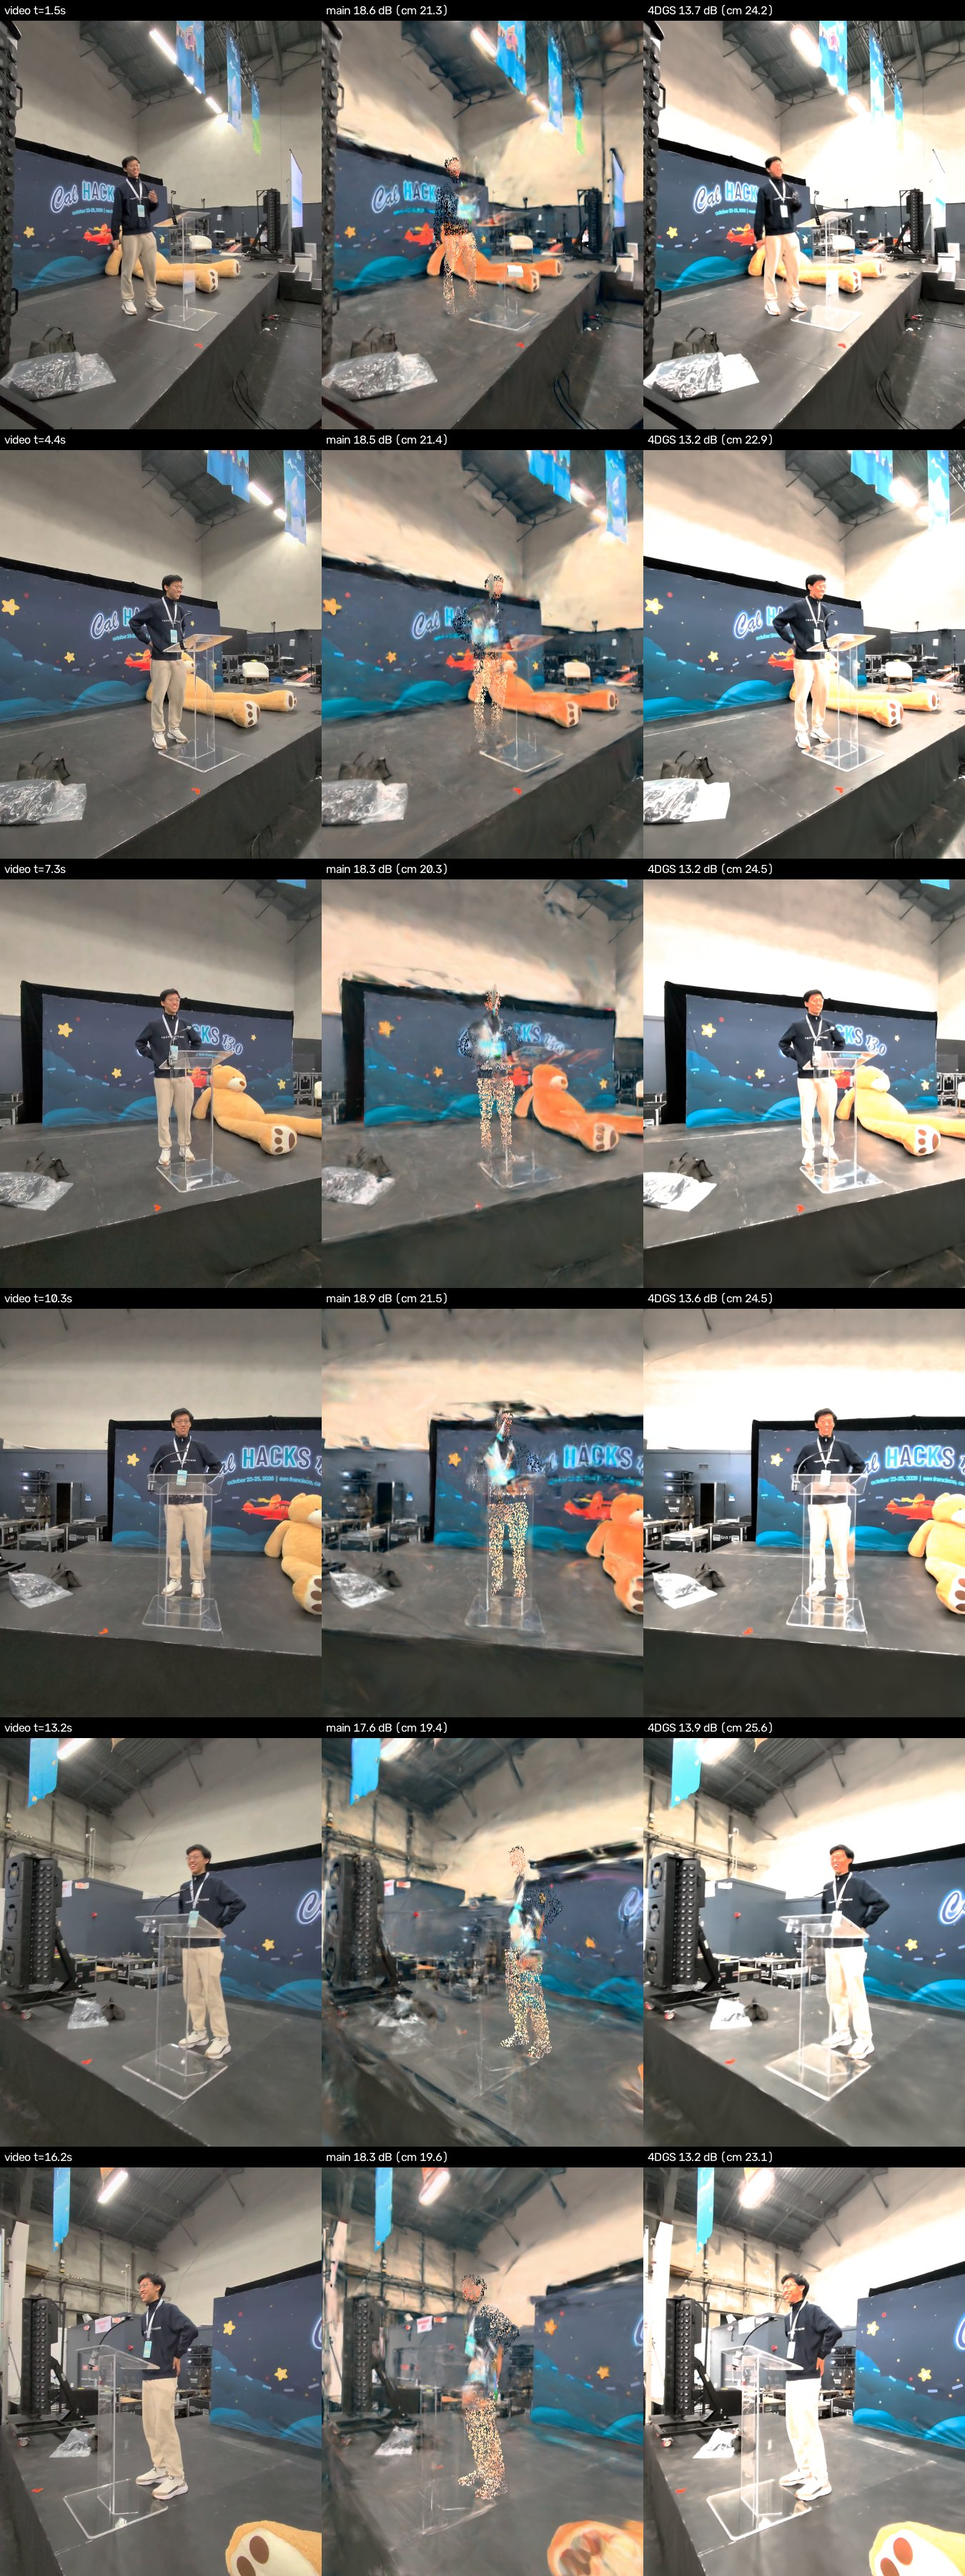
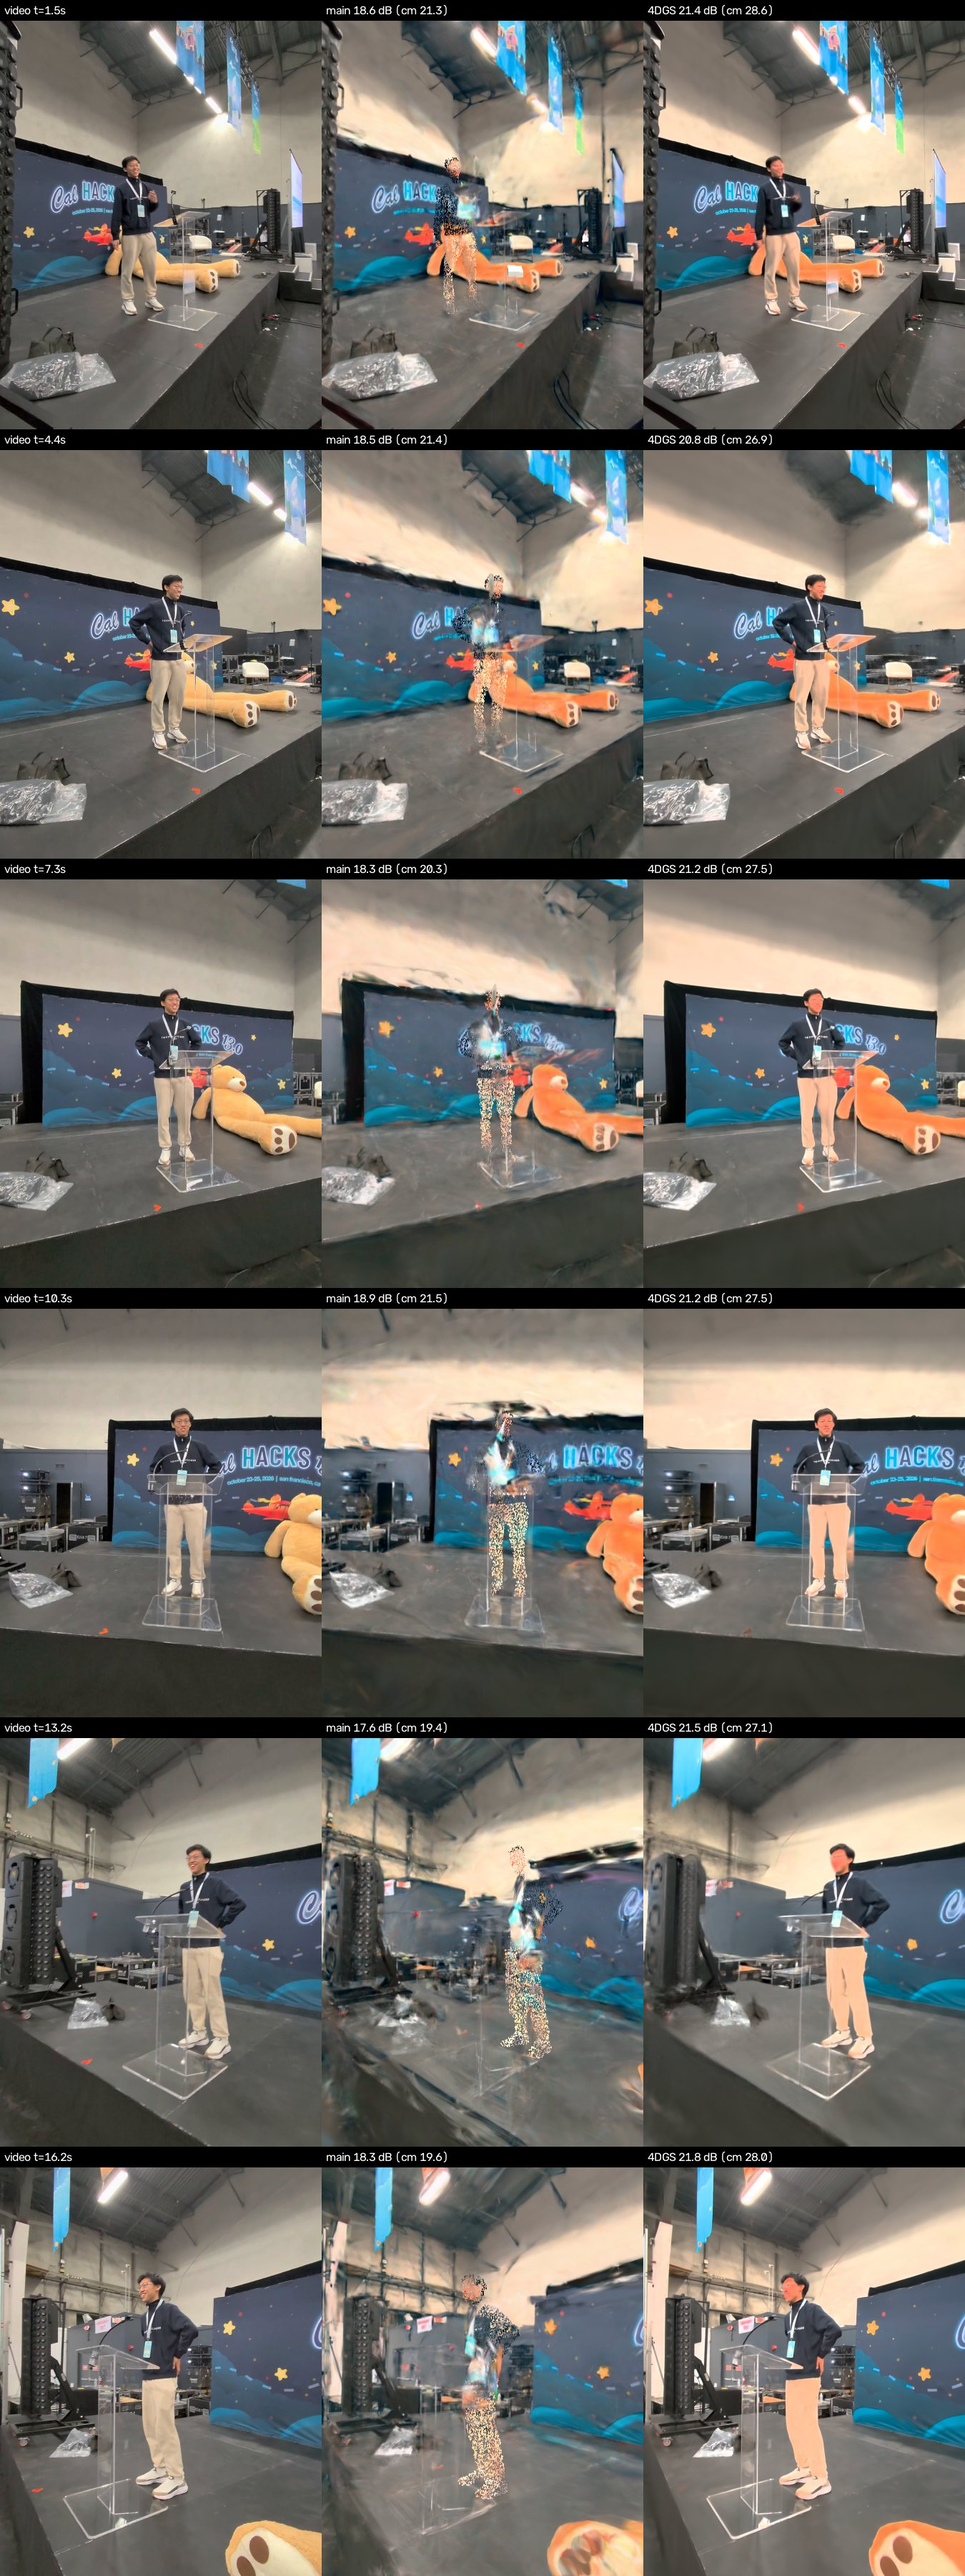
Report: split 4DGS retrained to completion (29.2 dB, static room, 93 MB), decoder offset measured

Changed region(s): [[0.6533, 0.0, 1.0, 1.0]]

diff --git a/docs/FOURD_REPORT.md b/docs/FOURD_REPORT.md
@@ -13,10 +13,11 @@ Track: an independent attempt at true 4D Gaussian splatting (4DGS) on the Ray-Ba
   2. **Bright walls are partly transparent.** 4DGaussians trains on a white background, so bright surfaces are learned see-through over white. On a black viewer background the same export scores 21.0 dB instead of 30.5 dB.
   3. **The files are big:** 880 MB for 17 s, against about 7 MB for the static room.
   4. **There is no separation into objects**, so nothing in the 4D splat can be grabbed or thrown.
-- **My split variant (run e) fixes problems 1 to 3.** Only Gaussians seeded on people deform, and training uses a random background.
-  - The room is exactly static, and the export is opaque.
-  - The payload drops to `static.spz` (4.5 MB) plus 0.79 MB per 10 Hz frame (144 MB for v59).
-  - It scores 26.0 dB on held-out frames on a black background, from a half-trained checkpoint (the run was cut short by the full disk).
+- **My split variant (run e, final) fixes problems 1 to 3.** Only Gaussians seeded on people deform, and training uses a random background. I retrained it to completion on the current clip, with the main pipeline's refined poses and exposure.
+  - Held-out: **29.2 dB, SSIM 0.913, LPIPS 0.213**; people pixels 25.9 dB, other pixels 29.5 dB. Scored in video space, against OpenCV frames of the current clip.
+  - The room does not move (median 0.0 cm, p90 2.2 cm), and the export is opaque.
+  - Payload: `static.spz` 3.4 MB plus 0.53 MB per 10 Hz frame, 93 MB for v59.
+  - Training took 33 min on one H200.
 - **v71** (39 s, stage then a crowded hall): 4DGS **28.7 dB / 0.905 / 0.218** against **18.0 dB / 0.777 / 0.389** for the static room at the same 97 held-out cameras. On people pixels: 25.7 vs 9.5 dB.
 - **The whole-frame PSNRs come from different frames.** v59's `input/clip.mp4` was re-normalized at 02:30Z with a darker tone map, after my runs had trained. Each method is scored against the frames it trained on. For a cross-check, the comparison image also reports PSNR after a global colour match.
 
@@ -69,7 +70,7 @@ Each method is scored against the frames it trained on: 4DGS against the clip as
 | a | 8.8 cm | 16.6 cm | 9.8 cm | 8.7 cm |
 | c | 7.1 cm | 14.7 cm | 9.2 cm | 6.9 cm |
 
-## Comparison image: `docs/fourd_vs_static_v59.jpg`
+## Comparison image (first version, run c; the docs image is now run e, see above)
 
 - **Columns:**
   1. The video frame (`ffmpeg -ss t` on the current `input/clip.mp4`).
@@ -116,7 +117,7 @@ Each method is scored against the frames it trained on: 4DGS against the clip as
 
 - **The room stays put.** A static splat is rock solid from any viewpoint in VR. 4DGaussians moves background Gaussians by a median 7 cm, to absorb pose and exposure errors, so off the recorded path the room shimmers. My held-out frames sit between training frames on the same path, which favours 4DGS. Novel-view quality in VR is untested, and probably worse than these numbers suggest.
 - **Objects and physics:** grabbable objects with colliders, a floor, a room collider. The 4D model is one undivided cloud, so you cannot grab and throw an object out of it.
-- **Size and streaming:** about 7 MB for the room, plus small ghost sequences and object splats. Vanilla 4DGS is 880 MB per 17 s at 10 Hz. The split (run e) brings it to 4.5 MB plus 139 MB, which is still about 20 times the layered payload.
+- **Size and streaming:** about 7 MB for the room, plus small ghost sequences and object splats. Vanilla 4DGS is 880 MB per 17 s at 10 Hz. The split (run e) brings it to 3.4 MB plus 93 MB, still about 14 times the layered payload.
 - **Opaque geometry:** 4DGS as shipped learns bright walls as semi-transparent over its white training background, which drops the export to 21 dB on black. The static pipeline does not have this problem. Training on a random background (run e) fixes it.
 - **Robustness on long, wide clips:** see v71 below.
 
@@ -129,28 +130,40 @@ Each method is scored against the frames it trained on: 4DGS against the clip as
   - Disk: about 3 GB of PLY plus 0.9 GB of spz per 17 s clip.
 - **Static pipeline:** gsplat MCMC training at 0.67 of the steps. The main session reports about 17 min per glasses clip on a shared GPU, and the output is about 7 MB.
 
-## Run e: static/dynamic split + random background (v59)
+## Run e: static/dynamic split + random background (v59, final)
 
 **Changes from run c** (patches in `patch_4dgaussians.py`, enabled by `FOURD_DYN_FLAG=1 FOURD_RANDBG=1`):
 
 - **Only people deform.** Init points backprojected from ViPE "person" pixels are flagged dynamic: 8.8k of 126k points, with the mask dilated by 6 px and sampled twice as densely. Only flagged Gaussians, and the children densification makes from them, go through the deformation field; the room is an ordinary static 3DGS. This uses 4DGaussians' own `_deformation_table`, which upstream carries through densification and pruning but never uses.
 - **Random background colour per training view.** The model can no longer hide bright walls as "transparent over white".
-- **It is not fully trained.** The run died at fine iteration ~10.3k of 14k when the /workspace volume hit its quota (see below), so these numbers are from the iteration-7000 checkpoint. There was no time to retrain before the 9 PM cut-off.
+- **Inputs match the main pipeline:**
+  - Frames: the current tone-mapped clip (`convert.py --refined --exposure`, data `A/data/v59e`).
+  - Poses: the main pipeline's pose refinement (the `cameras.json` vs `cameras.vipe.json` delta of the nearest keyframe, applied to every frame).
+  - Colour: training targets exposure-normalized as x = (y − b) / g from `world/exposure.json`. The export is therefore in the static room's colour space, and the viewer's wearer view re-exposes it with each keyframe's `e`.
+- **Training:** 3k coarse + 14k fine iterations, 33 min alone on pod B GPU 0 (03:42–04:16Z). Spz-only export with `post.py --keep_ply 0`.
+- **History:** a first run e on the old frames died at fine iteration ~10.3k when the disk filled. Its 7k checkpoint scored 25.99 / 0.886 / 0.245.
 
-| v59, 44 held-out frames | PSNR | SSIM | LPIPS | people px | non-people px |
+| v59, 44 held-out frames, video space (render re-exposed; GT = OpenCV frames of the current clip) | PSNR | SSIM | LPIPS | people px | other px |
 |---|---|---|---|---|---|
-| run e @7k, native renderer | 25.99 | 0.886 | 0.245 | 23.3 | 26.2 |
-| run e @7k, exported splats, **black** background | **25.98** | 0.886 | 0.245 | 23.3 | 26.2 |
-| run e @7k, exported splats, white background | 25.98 | 0.886 | 0.245 | 23.3 | 26.2 |
-| (run c, exported, black background) | 21.04 | 0.896 | 0.194 | 23.4 | 21.0 |
+| **run e, final** | **29.20** | **0.913** | **0.213** | **25.9** | **29.5** |
+| run c (vanilla; old frames; white background) | 30.51 | 0.934 | 0.163 | 25.1 | 31.1 |
+| run c, exported splats, black background | 21.04 | 0.896 | 0.194 | 23.4 | 21.0 |
+| main static room, `baked.ply`, same cameras | 18.24 | 0.794 | 0.338 | 9.1 | 20.0 |
 
-- **The export is now independent of the background:** fully opaque, and it renders the same on a dark viewer background.
-- **The room no longer moves:** non-person Gaussians have a median displacement of 0.0 cm, p90 5.5 cm (the p90 comes from dilated-mask edges flagged dynamic). Person Gaussians move a median 7.3 cm and p90 17.6 cm, as they should.
-- **Size:** 48.6k dynamic and 270k static Gaussians. The viewer payload is `static.spz` (4.5 MB) plus `frames_dyn/t_%04d.spz` (177 x 0.79 MB = 139 MB), against 890 MB for all-Gaussians-per-frame.
-- **Comparison-image rows with run e** (black background): mean 13.5 dB raw, 23.8 dB colour-matched, against 24.1 for run c and 20.6 for the main pipeline.
-- **Trade-off:**
-  - The background loses about 5 dB relative to run c, partly from half training. Mostly it is because a rigid room cannot absorb per-frame pose and exposure errors any more.
-  - It still beats the static pipeline's room on the same cameras (26.2 vs 20–22 dB on non-people pixels). This is the version worth putting in the viewer.
+- **Room motion** (`motion.json`): non-person Gaussians median 0.0 cm, p90 2.2 cm. Person Gaussians median 6.7 cm, p90 15.8 cm.
+- **Size:** 31.5k dynamic and 199.7k static Gaussians.
+- **Payload:**
+  - `static.spz`: 3.39 MB.
+  - `frames_dyn/t_0000..0176.spz`: 177 files of about 0.53 MB, 93 MB in total.
+  - For comparison, all-Gaussians-per-frame spz would be 693 MB (kept in `/workspace/4dgs/A/out/v59e_e/frames/`).
+- **Opaque:** trained on random backgrounds, so it renders the same on any viewer background.
+- **Comparison image** (`docs/fourd_vs_static_v59.jpg` is now run e, re-exposed with `exposure.json` and rendered on black). Means over the six rows:
+
+  | reference | main pipeline | 4DGS run e |
+  |---|---|---|
+  | ffmpeg `-ss` frame | 18.4 | 21.3 |
+  | ffmpeg frame, colour-matched | 20.6 | 27.6 |
+  | OpenCV frame (the decode both methods trained on) | 19.4 | 31.8 |
 
 ## v71 (39 s, stage then a crowded hall)
 
@@ -178,7 +191,7 @@ Each method is scored against the frames it trained on: 4DGS against the clip as
   - From now on: keep only spz (`post.py --keep_ply 0 --dyn_out 0`).
 - **Room wobble** (7 cm median) in vanilla 4DGaussians: fixed by the split (run e). The v71 export is still vanilla.
 - **Transparency from the white background:** fixed by the random-background training in run e. Runs a and c, and v71, were trained before the fix.
-- **Run e is half-trained** (7k of 14k fine iterations). Retrain it to completion: about 30 min alone on one H200.
+- **Run e is retrained to completion** (final numbers above). It has still not been viewed in the viewer or on Quest.
 - **Tone mismatch:** v59's clip was re-normalized after training. A retrain on the current clip would make the raw PSNRs comparable.
 - **Nothing has run in the viewer or on Quest:** I produced files only. 177 x 5 MB spz is too much to stream to Quest for one clip.
 - **The exported colour is baked for the recorded camera at each time,** so view-dependent effects are frozen. Fine for replay, slightly wrong from other viewpoints.
@@ -186,8 +199,8 @@ Each method is scored against the frames it trained on: 4DGS against the clip as
 
 ## Next steps
 
-1. Use the split model (run e) as the default, retrained to completion (about 30 min): static room Gaussians (one spz) plus dynamic people Gaussians per 10 Hz frame. Stream only the dynamic part, 0.8 MB per frame.
-2. Retrain on the current tone-mapped clip, with the main pipeline's refined poses and exposure.
+1. Use the split model (run e) as the default: `static.spz` (3.4 MB) loaded once, plus dynamic people Gaussians per 10 Hz frame (0.53 MB each). Stream only the dynamic part.
+2. Fix the stream colour tags at normalize, and score with the decoder used for training.
 3. Add a regularizer on deformation magnitude for Gaussians not on people, plus ViPE depth supervision, to reduce floaters off the recorded path.
 4. Try it in the viewer (Spark): load `static.spz` once and swap `frames_dyn/t_%04d.spz` per 100 ms.
 
@@ -200,11 +213,13 @@ Each method is scored against the frames it trained on: 4DGS against the clip as
   - `video_fixedcam.mp4`: camera frozen mid-clip while time plays.
   - `motion.json`
   - `compare_c.jpg`, `compare_c.json`
-  - `frames/`: `t_0000..0176.ply` and `.spz`, plus `frames.json`. All Gaussians per 10 Hz frame, in the world frame. 16.5 MB PLY or 5.0 MB spz each; 2.9 GB of PLY and 0.88 GB of spz in total.
-- **On the pod, v59 run e (split):** `/workspace/work/v59/4dgs/split/`
-  - `static.spz` (4.5 MB) and `static.ply`.
-  - `frames_dyn/t_%04d.spz` plus `frames.json`: 177 files, 139 MB in total.
-  - `metrics.json`, `renders/`, `compare_e.jpg`.
+  - `frames/`: `t_0000..0176.spz` plus `frames.json`. All Gaussians per 10 Hz frame, in the world frame, 5.0 MB each and 0.88 GB in total. The PLYs were deleted for disk space.
+- **On the pod, v59 run e (final split):** `/workspace/work/v59/4dgs/split/`
+  - `static.spz`: 3.4 MB.
+  - `frames_dyn/t_0000..0176.spz`: 93 MB in total.
+  - `frames_dyn/frames.json`
+  - `metrics.json`, `motion.json`, `renders/`, `compare_e.jpg`, `compare_e.json`.
+- **v59 run c spz:** `frames/t_*.spz`. Its PLYs were deleted for disk space.
 - **On the pod, v71:** `/workspace/work/v71/4dgs/`
   - `metrics.json`, `renders/`, `video.mp4`, `video_fixedcam.mp4`.
   - `frames/t_0000..0387.spz` plus `frames.json` (1.9 GB, PLYs not kept).

diff --git a/docs/VISION_PIPELINE_REPORT.md b/docs/VISION_PIPELINE_REPORT.md
@@ -286,7 +286,7 @@ code: `pipeline/fourd/`; side-by-side image: [fourd_vs_static_v59.jpg](fourd_vs_
 | v59 (speaker at the podium), 44 held-out frames, recorded camera | PSNR | SSIM | LPIPS | people px | other px |
 |---|---|---|---|---|---|
 | 4DGS, vanilla (run c) | **30.5** | **0.934** | **0.163** | 25.1 | 31.1 |
-| 4DGS, split room / people + random background (run e, half-trained) | 26.0 | 0.886 | 0.245 | 23.3 | 26.2 |
+| 4DGS, split room / people + random background (run e, retrained to completion 9:18 PM) | 29.2 | 0.913 | 0.213 | 25.9 | 29.5 |
 | Layered pipeline, static room (`baked.ply`) | 18.2 | 0.794 | 0.338 | 9.1 | 20.0 |
 
 v71 (stage, then a crowded hall), 97 held-out cameras: 4DGS 28.7 / 0.905 / 0.218 against 18.0 / 0.777 / 0.389 for
@@ -300,9 +300,10 @@ What it means:
   from anywhere else). It trains over white, so bright walls come out see-through (21 dB instead of 30.5 on a dark
   background). The export is 880 MB for 17 s. Nothing in it is an object, so nothing can be grabbed or thrown.
 - **The split variant fixes three of the four**: only Gaussians seeded on people deform, training uses a random
-  background. The room is exactly static (median motion 0.0 cm), the export is opaque, and the payload is
-  `static.spz` (4.5 MB) plus 0.8 MB per 10 Hz frame (144 MB for v59), for about 5 dB less. It was half-trained when
-  the shared volume filled up; a retrain to completion was started at 8:45 PM.
+  background. Retrained to completion (33 min on one H200): the room is exactly static (median motion 0.0 cm, p90
+  2.2 cm), the export is opaque, and the payload is `static.spz` (3.4 MB) plus 0.53 MB per 10 Hz frame (93 MB for
+  v59), for 1.3 dB less than vanilla. On the pod: `/workspace/work/v59/4dgs/split/` (`static.spz`, `frames_dyn/`,
+  `frames_dyn/frames.json`).
 - **Caveat on the numbers**: held-out frames sit between training frames on the same path, which favours 4DGS, and
   nobody has looked at either from a new viewpoint in VR. The two methods were trained on different tone-mappings of
   the same clip (the colour fix landed between them), so the image's raw per-row PSNRs are not comparable; after a
@@ -420,8 +421,12 @@ In the order we hit it. Every fix is in the code and the runbook.
 - **Phantom box in the demo scene**: a prop whose carve finds too few Gaussians falls back to a primitive drawn in
   front of the object still in the room; for the giant teddy that was an opaque tan box. Fixed by data (the teddy is
   a fixture in `manual_specs.json`); the general rule, drop or hide such props, is in §5.
-- **Scoring decode check**: the agent suspected the scorer's ffmpeg decode was darker than the OpenCV frames the
-  trainer sees; measured on the current clips the two differ by about 2 levels of 255, so the scores stand.
+- **Decoders disagree on the tone-mapped clips**: the 4DGS agent found the pod's OpenCV and ffmpeg 16 levels apart
+  on the same frame (the clips still carry HLG/BT.2020 tags after the LUT). Measured at the end of the night on the
+  rotunda, frame 312: the training JPEG the pod's OpenCV produced averages RGB 111/114/115, the laptop's ffmpeg
+  (what `compare` and the judges see) 106/109/110, the laptop's OpenCV 107/110/111: a uniform +4.5-level offset
+  in training, worth about 0.1 dB, not the warm cast. Fix next: decode frames with one tool everywhere (ffmpeg,
+  which S1 already uses) and strip the HLG tags after tone mapping.
 
 ## 5. What to improve next (in order of value)
 
